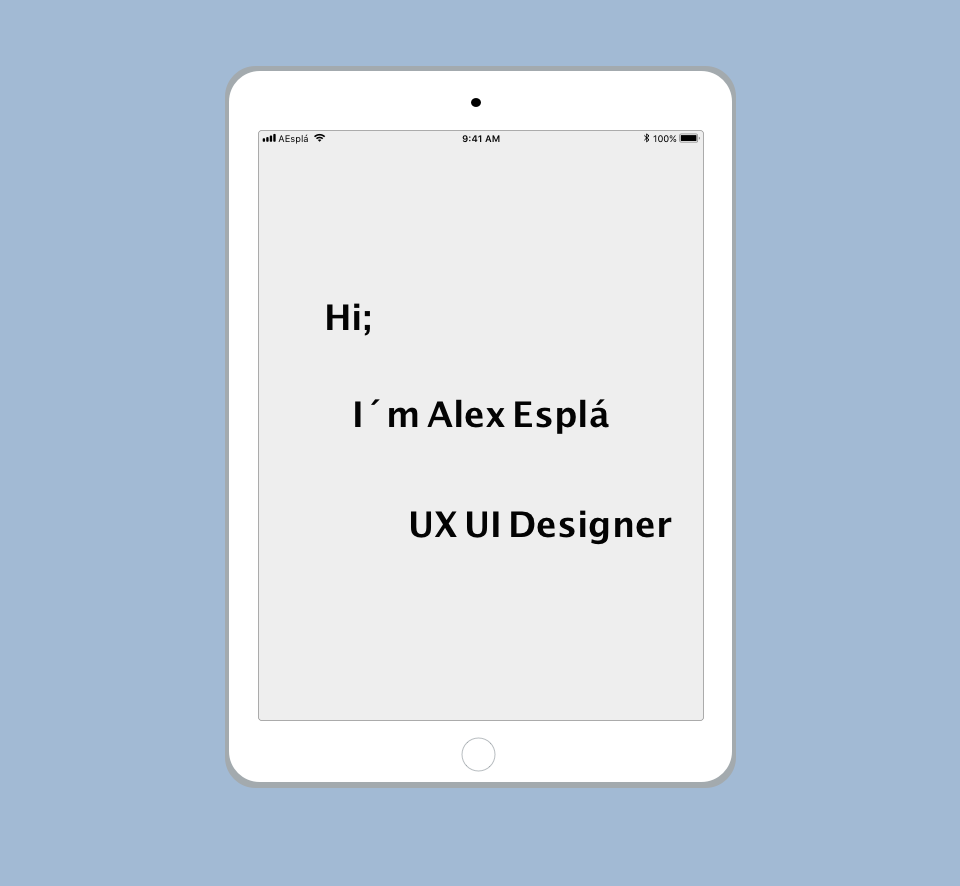
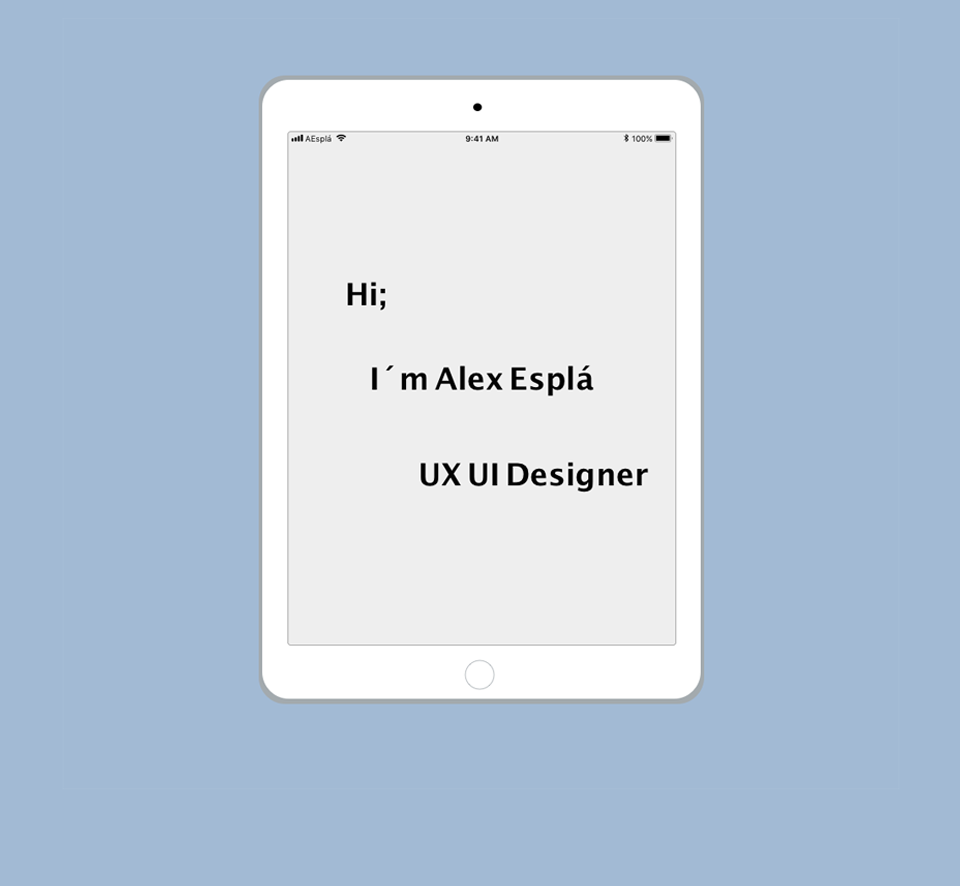
raplaced all the images

diff --git a/index.html b/index.html
@@ -101,7 +101,7 @@
       </div class="container">
       <div class="row">
         <div class="col-md-5 col-sm-6 col-xs-12">
-          <img class="img-fluid" src="assets/images/portrait1.png" alt="Responsive image">
+          <img class="img-fluid" src="assets/images/Portrait1.png" alt="Responsive image">
         </div>
         <div class="col-md-1 col-sm-6 col-xs-12"></div>
         <div class="col-md-5 col-sm-6 col-xs-12">
@@ -220,7 +220,7 @@
 
 
 
-              <img class="col-md-6 col-sm-6 col-xs-12 " src="assets/images/earthscreens.png" alt="">
+              <img class="col-md-6 col-sm-6 col-xs-12 " src="assets/images/Earthscreens.png" alt="">
             </div>
 
           </div>
@@ -243,7 +243,26 @@
             </div>
 
           </div>
+          <div class="container topcontainer">
 
+
+            <div class="row change-order-row">
+
+
+
+              <div class="col-md-6 col-sm-6 col-xs-12 leftmargin righttmargin change-order-element">
+                <p class="works h1 topworks "><span class="h2 numbers">04</span> Illustrations</p>
+                <h3 class="left description ">App to improve the recycling process and motivate people to be more constant. It allows you to win points that you will change for prices or cash.</h3>
+                <a href="earth.html" class="btn btn-primary topbutton">View</a>
+
+              </div>
+
+
+
+              <img class="col-md-6 col-sm-6 col-xs-12" src="assets/images/ilustraciones.png" alt="">
+            </div>
+
+          </div>
         </div>
 
 

diff --git a/assets/css/responsive.css b/assets/css/responsive.css
@@ -62,6 +62,11 @@ Author URI: http://themeforest.net/user/XpeedStudio/portfolio
     .righttmargin{
       padding-right: 20px;
     }
+    .overlay {
+        background-color: rgba(0, 0, 0, 0.);
+        width: 100%;
+        min-height: 750px;
+    }
 }
 /* Landscape phones and portrait tablets */
 @media (max-width: 767px) {
@@ -163,6 +168,17 @@ Author URI: http://themeforest.net/user/XpeedStudio/portfolio
 
     .change-order-element {
       order: 1;
+    }
+    .overlay {
+        background-color: rgba(0, 0, 0, 0.);
+        width: 100%;
+        min-height: 550px;
+    }
+    .logoharper{
+
+      padding-left: 20px;
+      padding-right: 20px;
+      padding-bottom: 20px;
     }
 }
 

diff --git a/assets/css/style.css b/assets/css/style.css
@@ -992,3 +992,9 @@ textarea::-ms-input-placeholder
 .data{
   color: #f56363;
 }
+.logoharper{
+
+  padding-left: 70px;
+  padding-right: 70px;
+  padding-bottom: 70px;
+}
